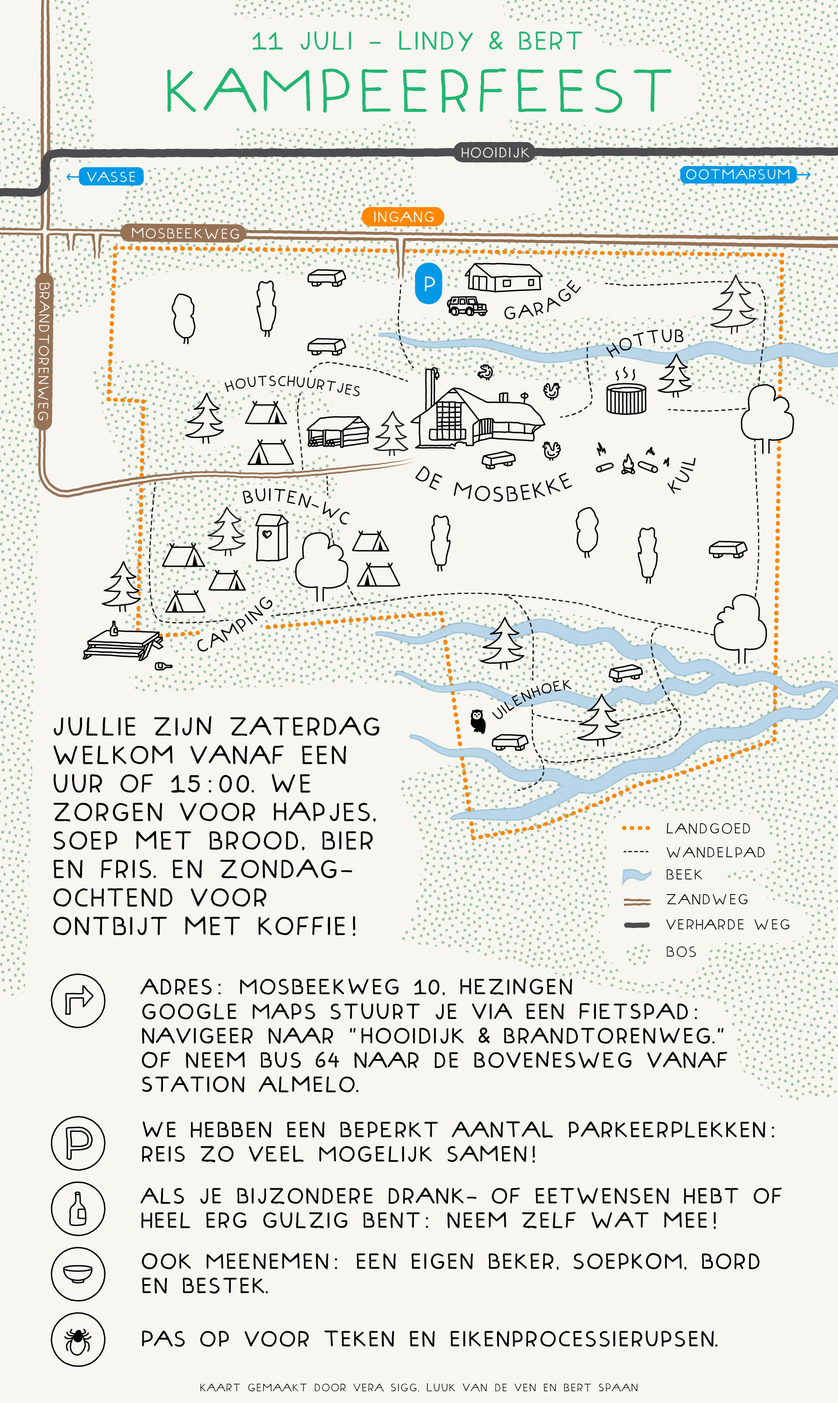
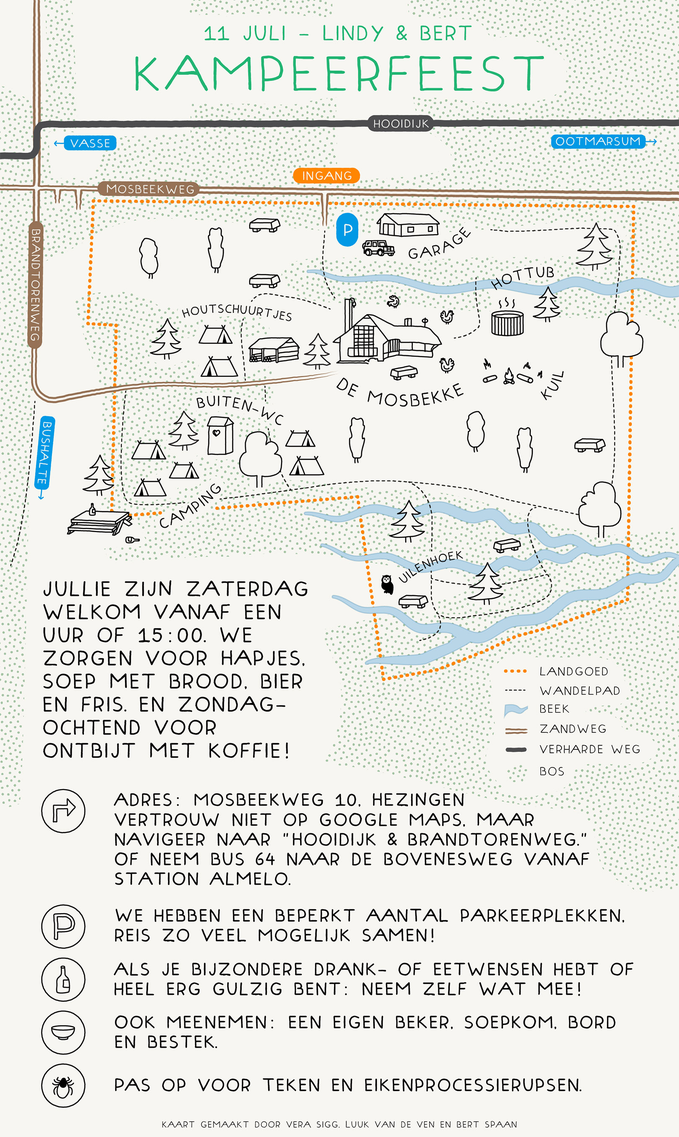
added bushalte

Changed region(s): [[0.1543, 0.7127, 0.8333, 0.7436], [0.0309, 0.3408, 0.0926, 0.4338]]

diff --git a/kampeerfeest-lindy-bert/index.html b/kampeerfeest-lindy-bert/index.html
@@ -19,7 +19,7 @@
 
     img {
       width: 100vw;
-      max-width: 1000px;
+      max-width: 810px;
     }
   </style>
 </head>
